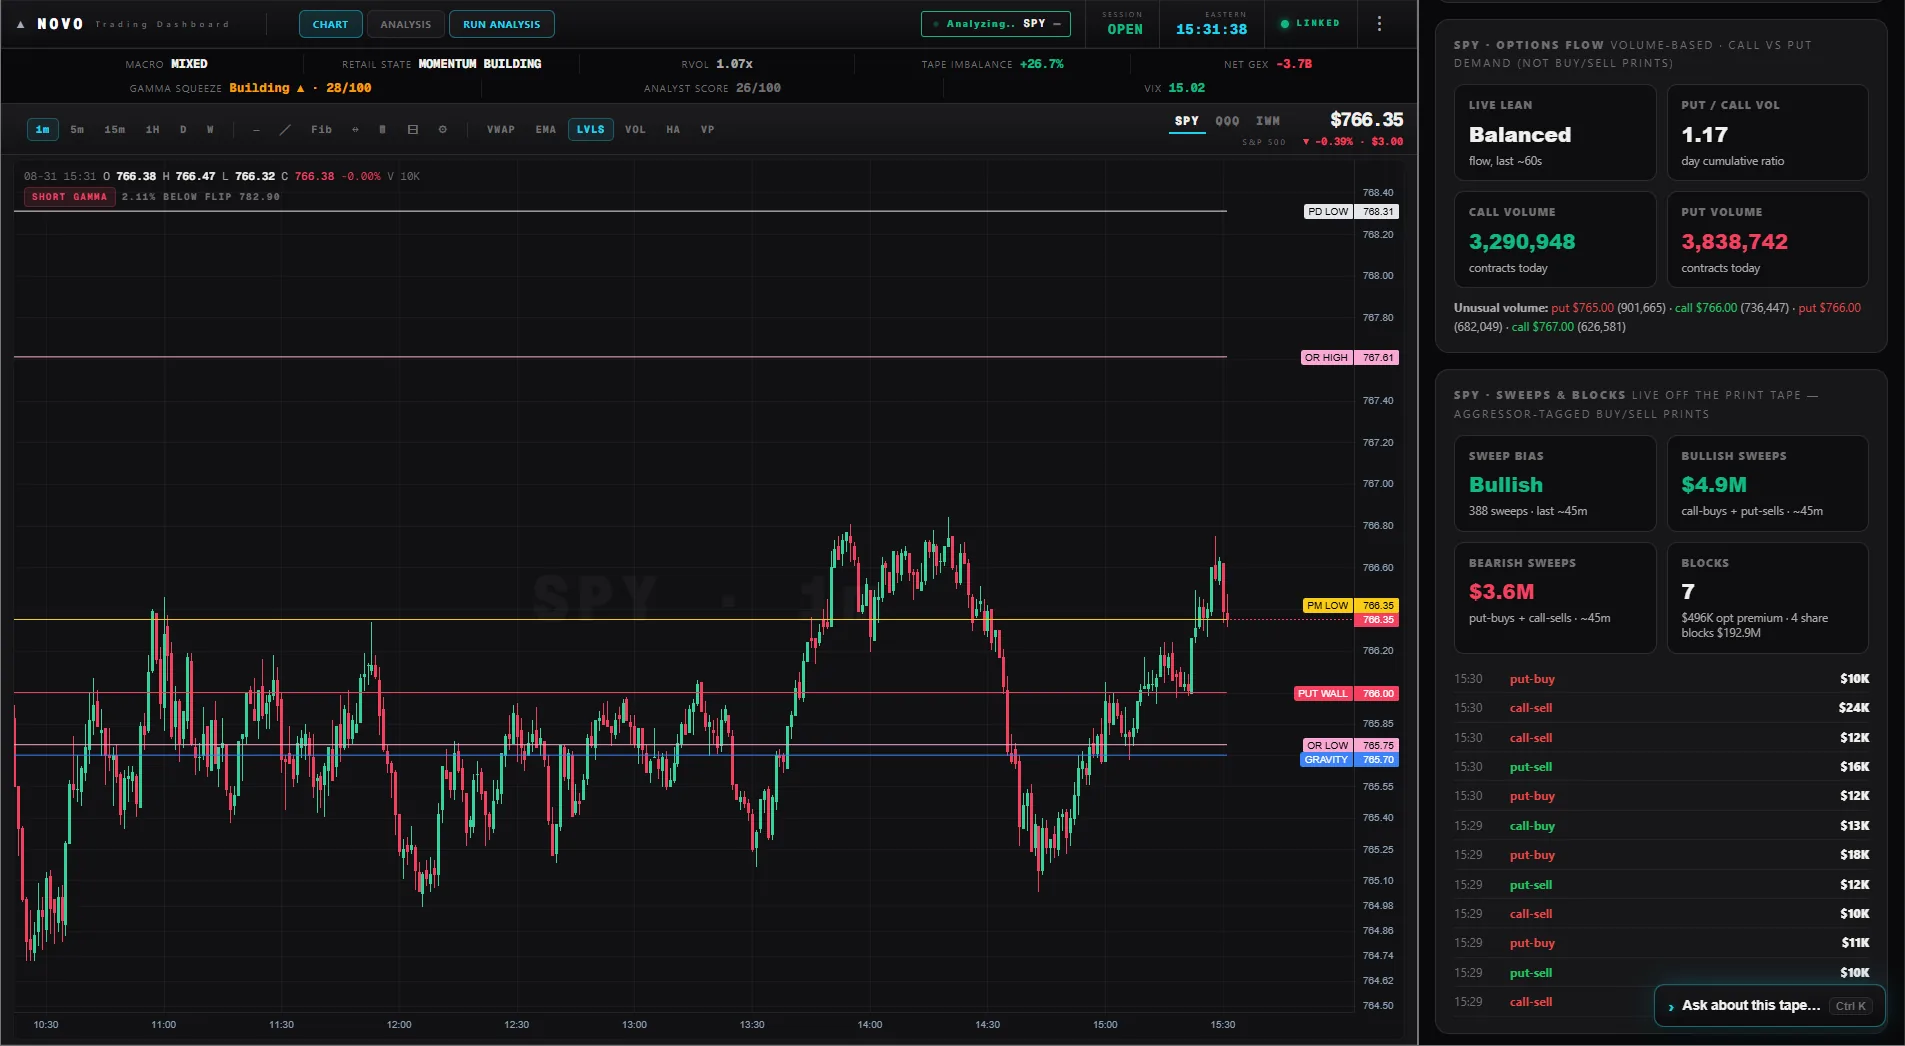
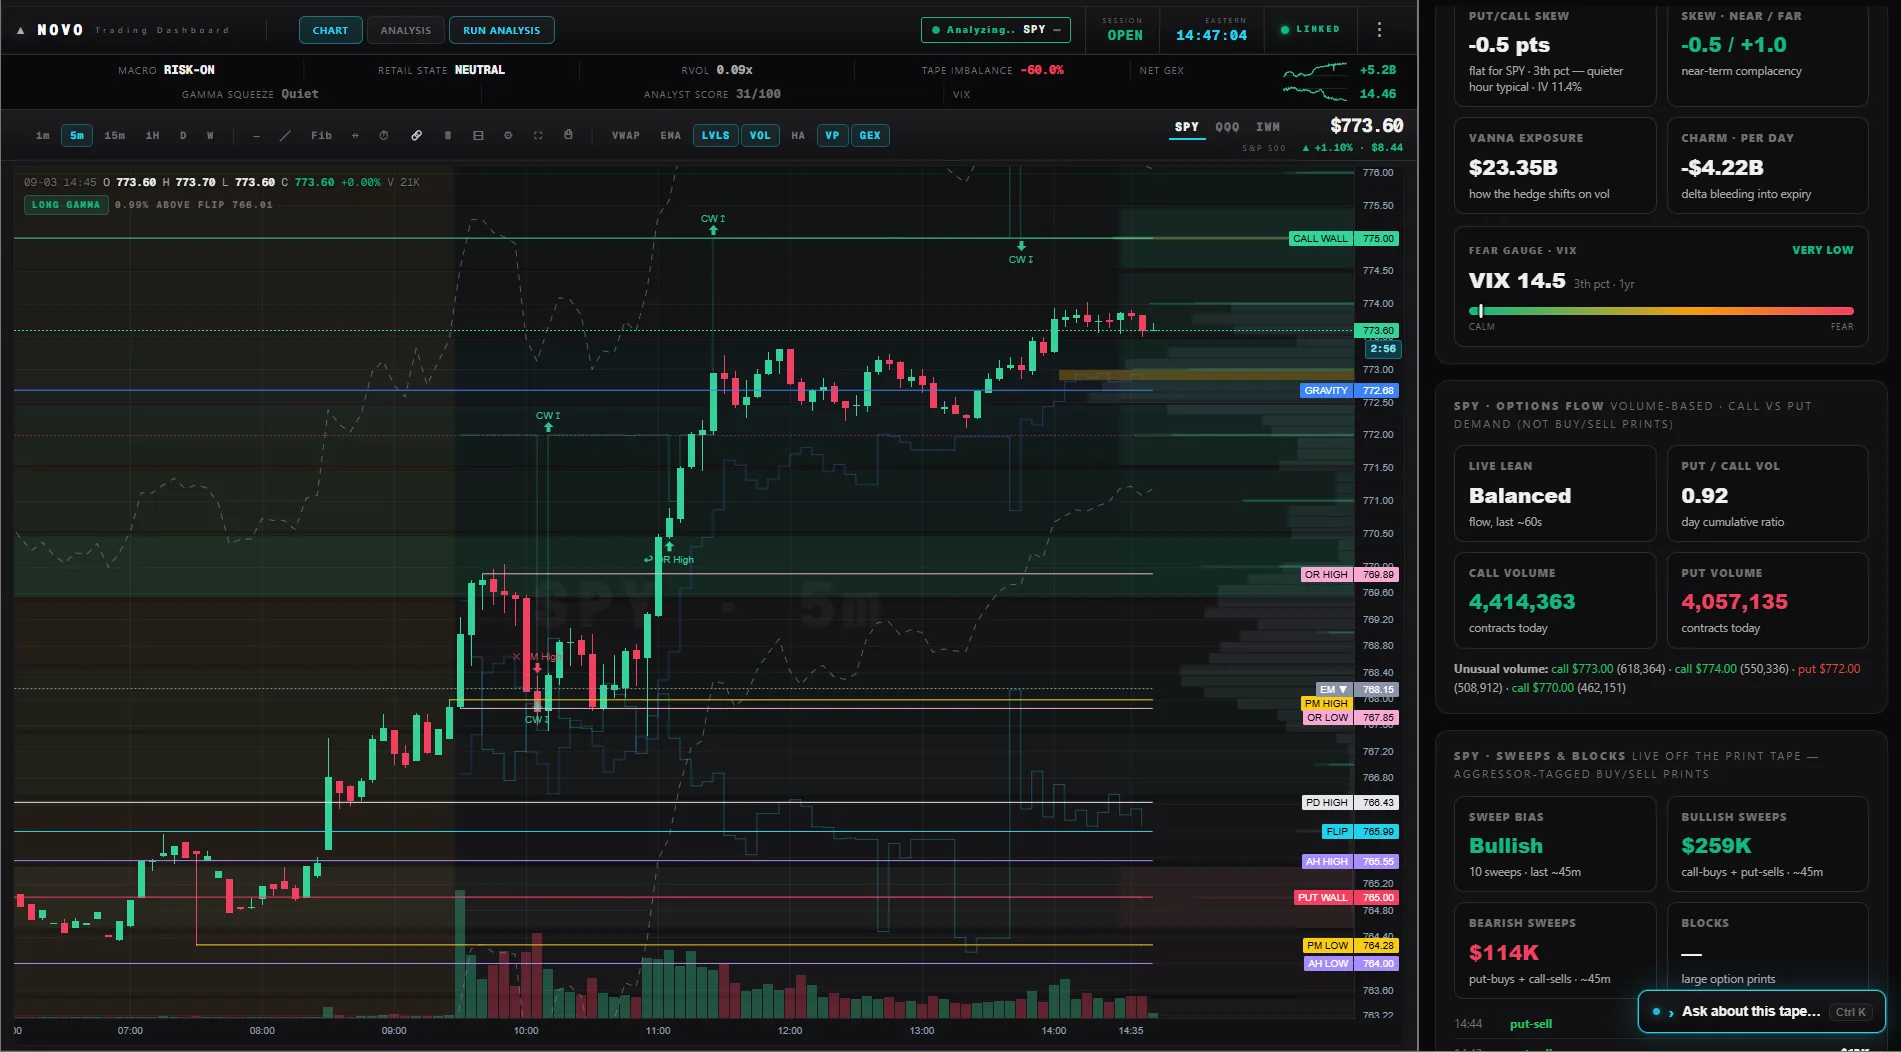
New Trader terminal screenshot, and the alt text that had to move with it
Jake supplied the image and granted a temporary unfreeze to install it. His screenshot, as always —
I only convert and place it.

Three things travel with the file, and the third is the one that would have gone wrong silently:

- Dimensions 1905x1046 -> 1901x1052 on the tag. Without it the browser reserves the wrong box and
  the hero shifts as the image lands.
- ?v=3 -> ?v=4. Assets are served immutable for a year, so without the bump a returning visitor
  keeps the old picture forever — the same trap that once shipped an unstamped site-search.js.
- THE ALT TEXT. It described "the live SPY 1-minute chart... net GEX in a live short-gamma regime".
  The new shot is on the 5m tab (the watermark reads SPY · 5m) and the pane reads LONG GAMMA, 0.99%
  above the flip. So the old alt described the opposite regime to the picture it labelled. Alt text
  is read aloud to screen-reader users and indexed by search engines; it is copy, and it goes stale
  exactly like copy. Now: 5-minute, long-gamma, and the levels actually visible (call wall, gravity,
  the flip, opening range, pre-market, prior-day).

Converted at WEBP q82 after comparing four quality levels: 101 KB against the previous 82 KB, for a
slightly taller image. Verified loaded and undistorted at 1920 and 412, no horizontal scroll.

Incidentally the shot now demonstrates something the page only recently earned the right to claim:
it is a 5-minute chart streaming live, which is exactly the 1m/5m/15m capability shipped today.

diff --git a/public/trader.html b/public/trader.html
@@ -612,7 +612,7 @@ nav { position: relative; }
 </style>
 
     <div class="hero-mashup">
-      <div class="hm-back"><img src="/screenshots/trader-live-desk.webp?v=3" width="1905" height="1046" alt="The Trader terminal &mdash; the live SPY 1-minute chart with every level price-labelled in the pane: put wall, gravity, opening range, pre-market and prior-day levels &mdash; under the intel strip: macro regime, retail state, relative volume, tape imbalance, net GEX in a live short-gamma regime, the gamma-squeeze gauge and the Analyst Score &mdash; beside the options-flow rail with put/call volume, unusual strikes, and the aggressor-tagged sweeps-and-blocks print tape" loading="eager" fetchpriority="high" decoding="async"></div>
+      <div class="hm-back"><img src="/screenshots/trader-live-desk.webp?v=4" width="1901" height="1052" alt="The Trader terminal &mdash; the live SPY 5-minute chart with every level price-labelled in the pane: call wall, gravity, the flip, opening range, pre-market and prior-day levels &mdash; under the intel strip: macro regime, retail state, relative volume, tape imbalance, net GEX in a live long-gamma regime, the gamma-squeeze gauge and the Analyst Score &mdash; beside the options-flow rail with put/call volume, unusual strikes, and the aggressor-tagged sweeps-and-blocks print tape" loading="eager" fetchpriority="high" decoding="async"></div>
       <div class="hm-fan">
         <div class="hm-card" style="transform:rotate(-11deg) ;z-index:4;"><img src="/screenshots/trader-live-chart.webp?v=3" width="529" height="1046" alt="Trader on a phone &mdash; the chart tab &mdash; the live 1-minute chart with the put wall, gravity, opening-range and pre-market levels drawn and the short-gamma read pinned to the pane, with Market Intel beneath: VIX, macro regime, retail state, relative volume, tape imbalance, net GEX, the gamma-squeeze bar and the Analyst Score" loading="lazy" decoding="async"></div>
         <div class="hm-card" style="transform:rotate(9deg) translateY(16px);z-index:3;margin-left:-46px;"><img src="/screenshots/trader-live-analysis.webp?v=2" width="500" height="1047" alt="Trader on a phone &mdash; the analysis tab &mdash; the top-of-hour structural audit with its bias, identified levels, observed patterns and written thesis, NoVo's pre-market primer, and 'The Line' level-break playbook" loading="lazy" decoding="async"></div>
